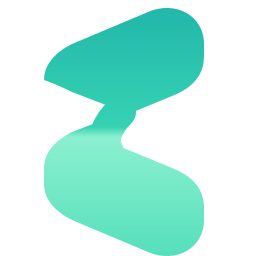
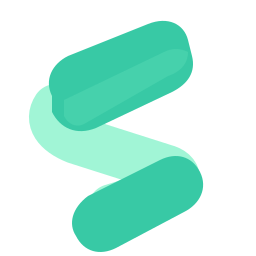
fix(brand): redraw Salon folded ribbon mark
- Replace the pinched two-lobe shape with three folded ribbon bands.
- Refresh light and dark previews and document inspection at 16, 32, and 256 px.

diff --git a/docs/design/icon.md b/docs/design/icon.md
@@ -1,6 +1,6 @@
 # Salon icon
 
-The Salon mark uses concept B: a continuous S-shaped conversation ribbon with two turns. Its two-part teal and mint gradient keeps the shape readable on light and dark surfaces.
+The Salon mark follows concept B: three folded ribbon bands form an S-shaped conversation mark. A dark teal upper band and lower band frame the light mint diagonal fold. A subtle fold highlight keeps the three main bands distinct at small sizes.
 
 ## Assets
 
@@ -12,9 +12,9 @@ The SVG files are the editable source. Preview PNG files are raster outputs and 
 
 ## Inspection
 
-Both SVG variants were rendered at 16 px, 32 px, and 256 px with `rsvg-convert`. The 256 px renders were cross-checked in headless Chrome and inspected on light and dark surfaces. The upper bridge cap now meets the lobe without an open notch. The 16 px and 32 px outputs were inspected at native size and enlarged with nearest-neighbor scaling. The darker first turn and lighter second turn remain distinct in each theme variant.
+Both SVG variants were rendered at their stated preview dimensions with `rsvg-convert`. The resulting PNG dimensions were checked with `identify`, and the 16 px, 32 px, and 256 px outputs were inspected at native size and enlarged with nearest-neighbor scaling for edge and silhouette review. The dark upper and lower bands remain distinct from the mint fold in each theme variant.
 
-The widened waist keeps the two turns visibly connected at 16 px. The upper bridge cap overlaps the ribbon lobe to avoid a notch at larger sizes. Each theme uses distinct SVG title and gradient IDs so both variants can be inlined in the same document without ID collisions.
+The layered bands keep the diagonal mint fold visible at 16 px. Each theme uses a distinct SVG title ID so both variants can be inlined in the same document without ID collisions.
 
 ## Validation note
 
